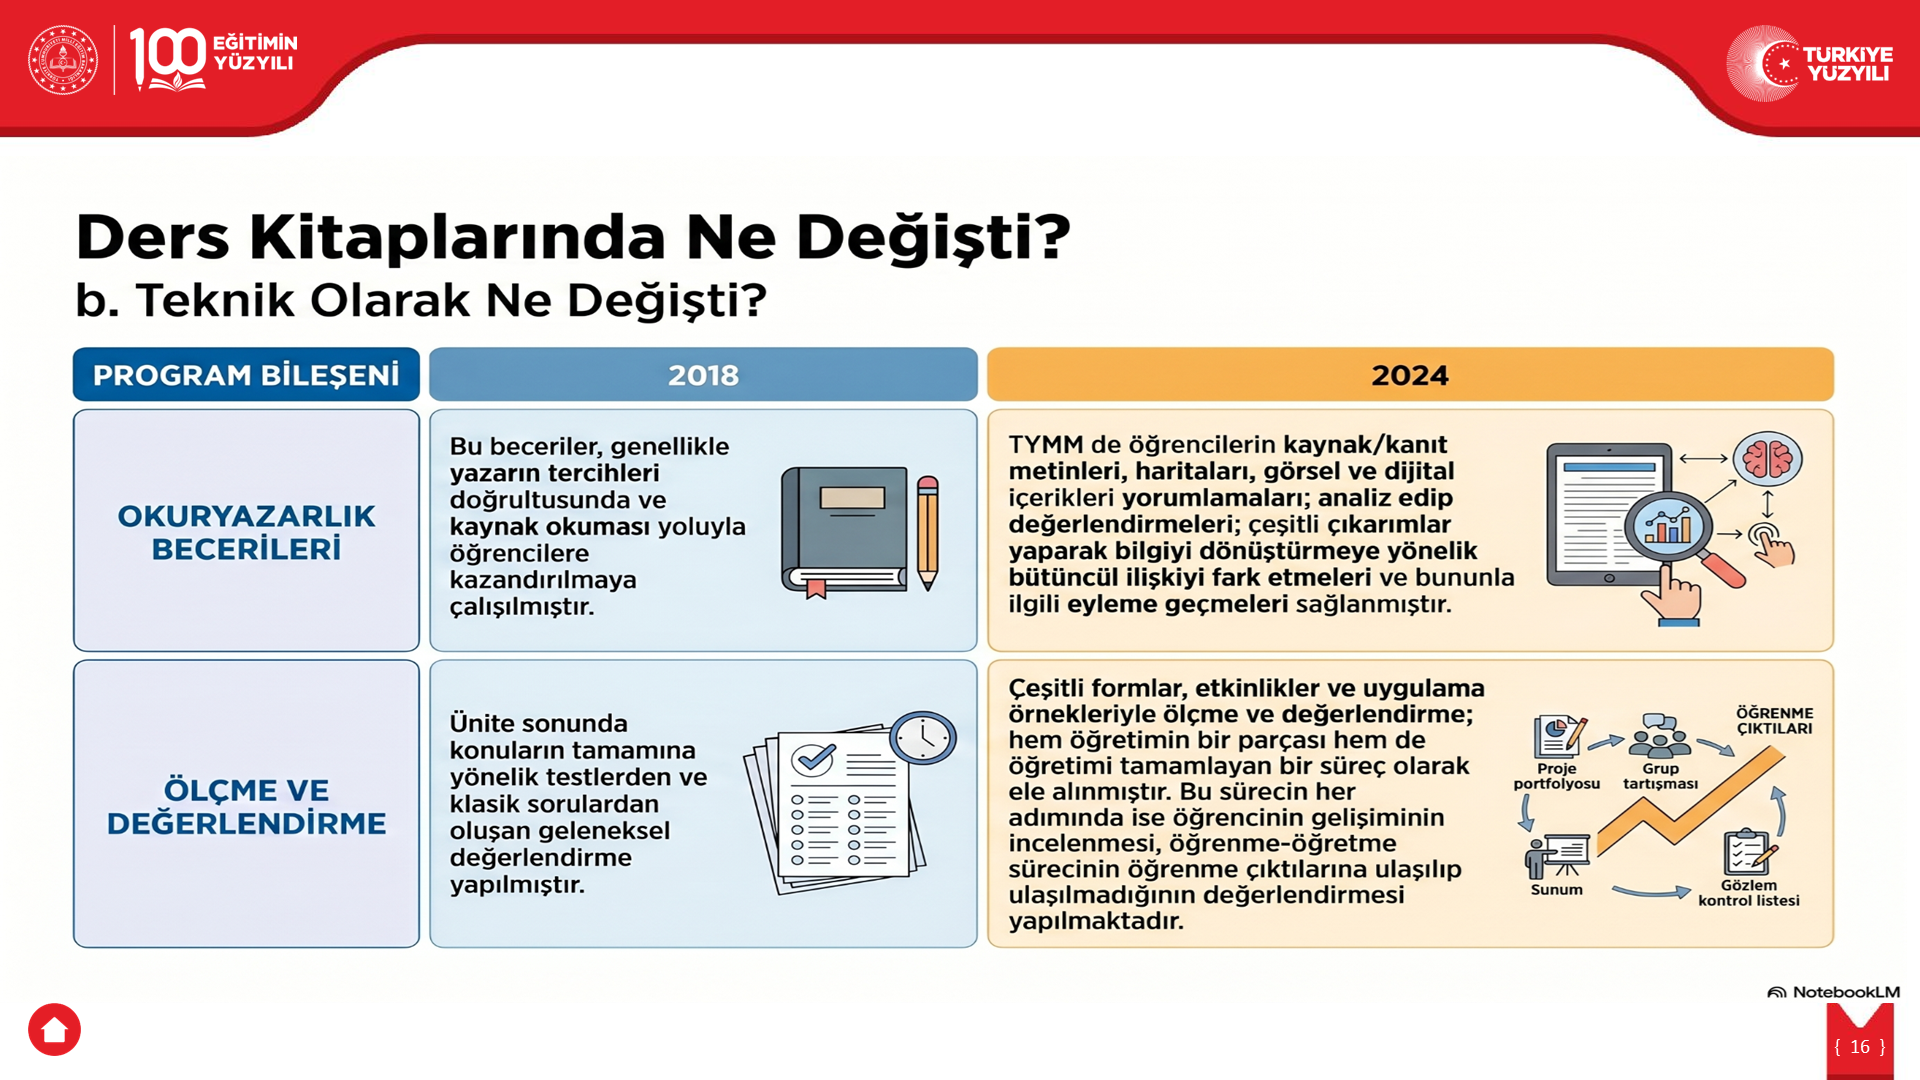
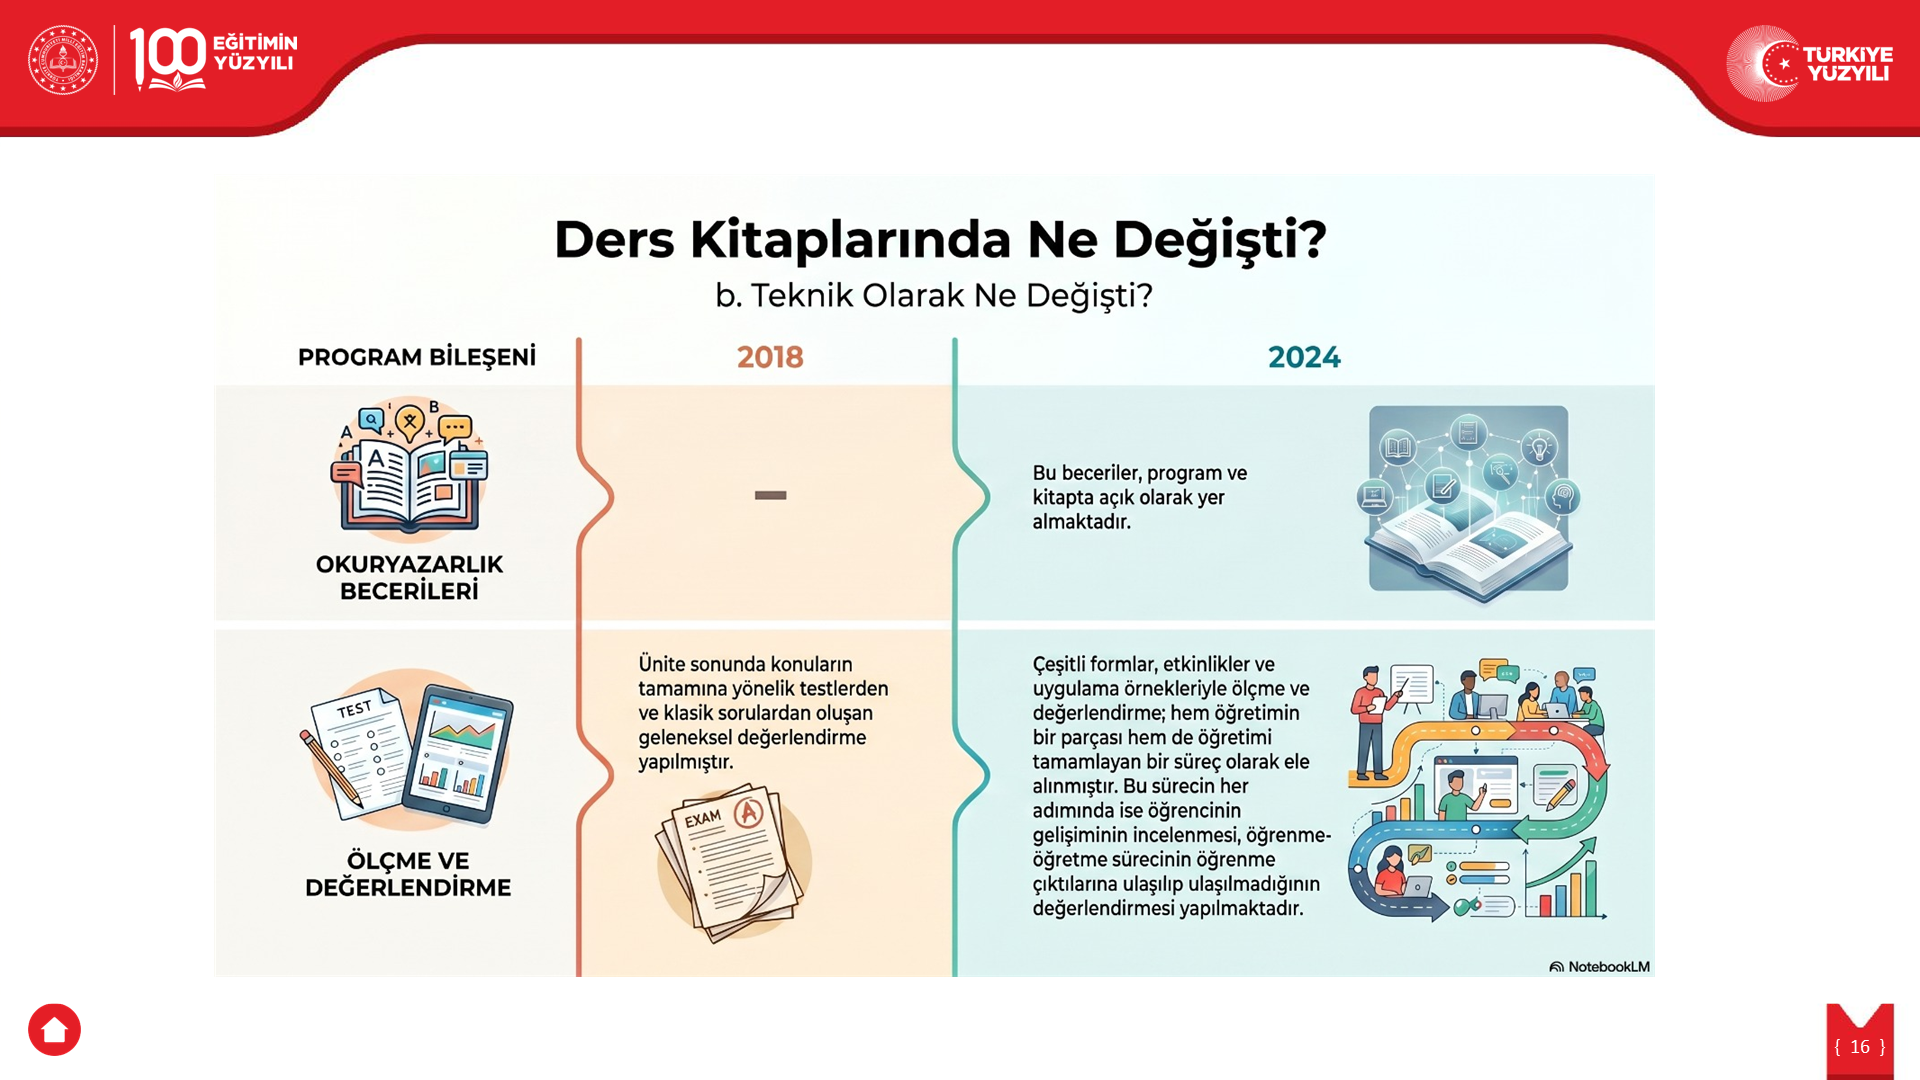
edit 3

diff --git a/app.js b/app.js
@@ -6,6 +6,18 @@ const slides = Array.from({ length: TOTAL_SLIDES }, (_, index) => ({
   image: `assets/slides/slide-${String(index + 1).padStart(2, "0")}.png`,
 }));
 
+const sectionRanges = [
+  { start: 1, end: 2 },
+  { start: 3, end: 4 },
+  { start: 5, end: 5 },
+  { start: 6, end: 7 },
+  { start: 8, end: 11 },
+  { start: 12, end: 17 },
+  { start: 18, end: 21 },
+  { start: 22, end: 34 },
+  { start: 35, end: 36 },
+];
+
 const commonHomeZone = {
   kind: "home",
   label: "İçindekilere dön",
@@ -166,6 +178,25 @@ function clamp(value, min, max) {
   return Math.min(Math.max(value, min), max);
 }
 
+function getSectionRange(slideNumber) {
+  return sectionRanges.find(
+    (section) => slideNumber >= section.start && slideNumber <= section.end
+  );
+}
+
+function canStepFrom(slideNumber, direction) {
+  const section = getSectionRange(slideNumber);
+  if (!section) return false;
+
+  const nextSlide = slideNumber + direction;
+  return nextSlide >= section.start && nextSlide <= section.end;
+}
+
+function stepSlide(direction) {
+  if (!canStepFrom(currentSlide, direction)) return;
+  goToSlide(currentSlide + direction);
+}
+
 function goToSlide(slideNumber, options = {}) {
   const nextSlide = clamp(slideNumber, 1, TOTAL_SLIDES);
   if (isFlipping || (nextSlide === currentSlide && slideImage.src)) return;
@@ -199,8 +230,8 @@ function render(options = {}) {
   slideImage.src = slide.image;
   slideImage.alt = `Slayt ${slide.number}`;
   slideCounter.textContent = `${slide.number} / ${TOTAL_SLIDES}`;
-  prevBtn.disabled = slide.number === 1;
-  nextBtn.disabled = slide.number === TOTAL_SLIDES;
+  prevBtn.disabled = !canStepFrom(slide.number, -1);
+  nextBtn.disabled = !canStepFrom(slide.number, 1);
   history.replaceState(null, "", `#slide-${String(slide.number).padStart(2, "0")}`);
   renderHotspots(slide.number);
   preload(slide.number + 1);
@@ -272,19 +303,19 @@ function toggleFullscreen() {
   }
 }
 
-prevBtn.addEventListener("click", () => goToSlide(currentSlide - 1));
-nextBtn.addEventListener("click", () => goToSlide(currentSlide + 1));
+prevBtn.addEventListener("click", () => stepSlide(-1));
+nextBtn.addEventListener("click", () => stepSlide(1));
 homeBtn.addEventListener("click", () => goToSlide(HOME_SLIDE));
 fullscreenBtn.addEventListener("click", toggleFullscreen);
 
 window.addEventListener("keydown", (event) => {
   if (event.key === "ArrowRight" || event.key === "PageDown" || event.key === " ") {
     event.preventDefault();
-    goToSlide(currentSlide + 1);
+    stepSlide(1);
   }
   if (event.key === "ArrowLeft" || event.key === "PageUp") {
     event.preventDefault();
-    goToSlide(currentSlide - 1);
+    stepSlide(-1);
   }
   if (event.key === "Home") {
     event.preventDefault();
@@ -322,13 +353,13 @@ stage.addEventListener("pointerup", (event) => {
   if (Math.abs(deltaY) > Math.abs(deltaX) * 1.25) return;
 
   if (Math.abs(deltaX) >= 46) {
-    goToSlide(currentSlide + (deltaX < 0 ? 1 : -1));
+    stepSlide(deltaX < 0 ? 1 : -1);
     return;
   }
 
   if (elapsed < 420) {
     const clickedRightHalf = event.clientX > stageRect.left + stageRect.width / 2;
-    goToSlide(currentSlide + (clickedRightHalf ? 1 : -1));
+    stepSlide(clickedRightHalf ? 1 : -1);
   }
 });
 